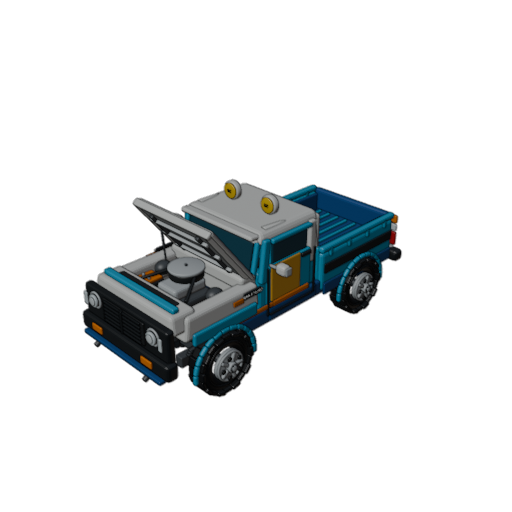
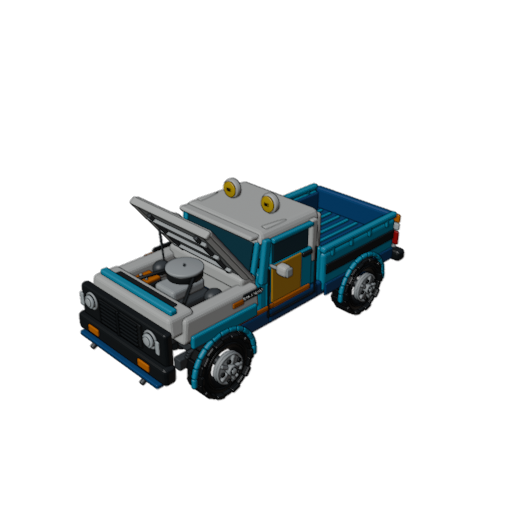
Update showcase images and improve README descriptions for clarity

Changed region(s): [[0.1562, 0.3438, 0.8125, 0.7812]]

diff --git a/README.md b/README.md
@@ -32,9 +32,9 @@ git clone https://github.com/larryshaw0079/procagen3d.git ~/.claude/skills/proca
 
 Representative reference-conditioned results selected from successful
 `procagen3d_out/` runs. Each pair shows the closest available source-image
-angle on the left and the generated render on the right. Every model starts as
-an executable Blender Python program and is compiled to a portable GLB by the
-ProcAgen3D pipeline.
+angle on the left and a clean Blender render of the exported `model.glb` on the
+right. Every model starts as an executable Blender Python program and is
+compiled to a portable GLB by the ProcAgen3D pipeline.
 
 <table>
   <tr>
@@ -43,9 +43,9 @@ ProcAgen3D pipeline.
         <img src="assets/showcase/audi-sport-quattro-s1-reference.png" width="205" alt="Reference image of an Audi Sport Quattro S1 rally car">
       </a>
       <a href="assets/showcase/audi-sport-quattro-s1.png">
-        <img src="assets/showcase/audi-sport-quattro-s1.png" width="205" alt="ProcAgen3D render of an Audi Sport Quattro S1 rally car">
+        <img src="assets/showcase/audi-sport-quattro-s1.png" width="205" alt="ProcAgen3D GLB render of an Audi Sport Quattro S1 rally car">
       </a><br>
-      <sub>Reference → ProcAgen3D</sub><br>
+      <sub>Reference → ProcAgen3D GLB</sub><br>
       <strong>Audi Sport Quattro S1</strong>
     </td>
     <td align="center">
@@ -53,9 +53,9 @@ ProcAgen3D pipeline.
         <img src="assets/showcase/china-pavilion-reference.png" width="205" alt="Reference image of a traditional Chinese pavilion">
       </a>
       <a href="assets/showcase/china-pavilion.png">
-        <img src="assets/showcase/china-pavilion.png" width="205" alt="ProcAgen3D render of a traditional Chinese pavilion">
+        <img src="assets/showcase/china-pavilion.png" width="205" alt="ProcAgen3D GLB render of a traditional Chinese pavilion">
       </a><br>
-      <sub>Reference → ProcAgen3D</sub><br>
+      <sub>Reference → ProcAgen3D GLB</sub><br>
       <strong>Traditional Chinese Pavilion</strong>
     </td>
   </tr>
@@ -65,9 +65,9 @@ ProcAgen3D pipeline.
         <img src="assets/showcase/benben-robot-reference.png" width="205" alt="Reference image of the Benben robot">
       </a>
       <a href="assets/showcase/benben-robot.png">
-        <img src="assets/showcase/benben-robot.png" width="205" alt="ProcAgen3D render of the Benben robot">
+        <img src="assets/showcase/benben-robot.png" width="205" alt="ProcAgen3D GLB render of the Benben robot">
       </a><br>
-      <sub>Reference → ProcAgen3D</sub><br>
+      <sub>Reference → ProcAgen3D GLB</sub><br>
       <strong>Benben Robot</strong>
     </td>
     <td align="center">
@@ -75,9 +75,9 @@ ProcAgen3D pipeline.
         <img src="assets/showcase/nissan-skyline-super-silhouette-reference.png" width="205" alt="Reference image of a Nissan Skyline Super Silhouette race car">
       </a>
       <a href="assets/showcase/nissan-skyline-super-silhouette.png">
-        <img src="assets/showcase/nissan-skyline-super-silhouette.png" width="205" alt="ProcAgen3D render of a Nissan Skyline Super Silhouette race car">
+        <img src="assets/showcase/nissan-skyline-super-silhouette.png" width="205" alt="ProcAgen3D GLB render of a Nissan Skyline Super Silhouette race car">
       </a><br>
-      <sub>Reference → ProcAgen3D</sub><br>
+      <sub>Reference → ProcAgen3D GLB</sub><br>
       <strong>Nissan Skyline Super Silhouette</strong>
     </td>
   </tr>
@@ -87,9 +87,9 @@ ProcAgen3D pipeline.
         <img src="assets/showcase/pagani-huayra-r-reference.png" width="205" alt="Reference image of a Pagani Huayra R">
       </a>
       <a href="assets/showcase/pagani-huayra-r.png">
-        <img src="assets/showcase/pagani-huayra-r.png" width="205" alt="ProcAgen3D render of a Pagani Huayra R">
+        <img src="assets/showcase/pagani-huayra-r.png" width="205" alt="ProcAgen3D GLB render of a Pagani Huayra R">
       </a><br>
-      <sub>Reference → ProcAgen3D</sub><br>
+      <sub>Reference → ProcAgen3D GLB</sub><br>
       <strong>Pagani Huayra R</strong>
     </td>
     <td align="center">
@@ -97,9 +97,9 @@ ProcAgen3D pipeline.
         <img src="assets/showcase/toyota-sr5-reference.png" width="205" alt="Reference image of a Toyota SR5 pickup with its hood open">
       </a>
       <a href="assets/showcase/toyota-sr5.png">
-        <img src="assets/showcase/toyota-sr5.png" width="205" alt="ProcAgen3D render of a Toyota SR5 pickup with its hood open">
+        <img src="assets/showcase/toyota-sr5.png" width="205" alt="ProcAgen3D GLB render of a Toyota SR5 pickup with its hood open">
       </a><br>
-      <sub>Reference → ProcAgen3D</sub><br>
+      <sub>Reference → ProcAgen3D GLB</sub><br>
       <strong>Toyota SR5</strong>
     </td>
   </tr>
